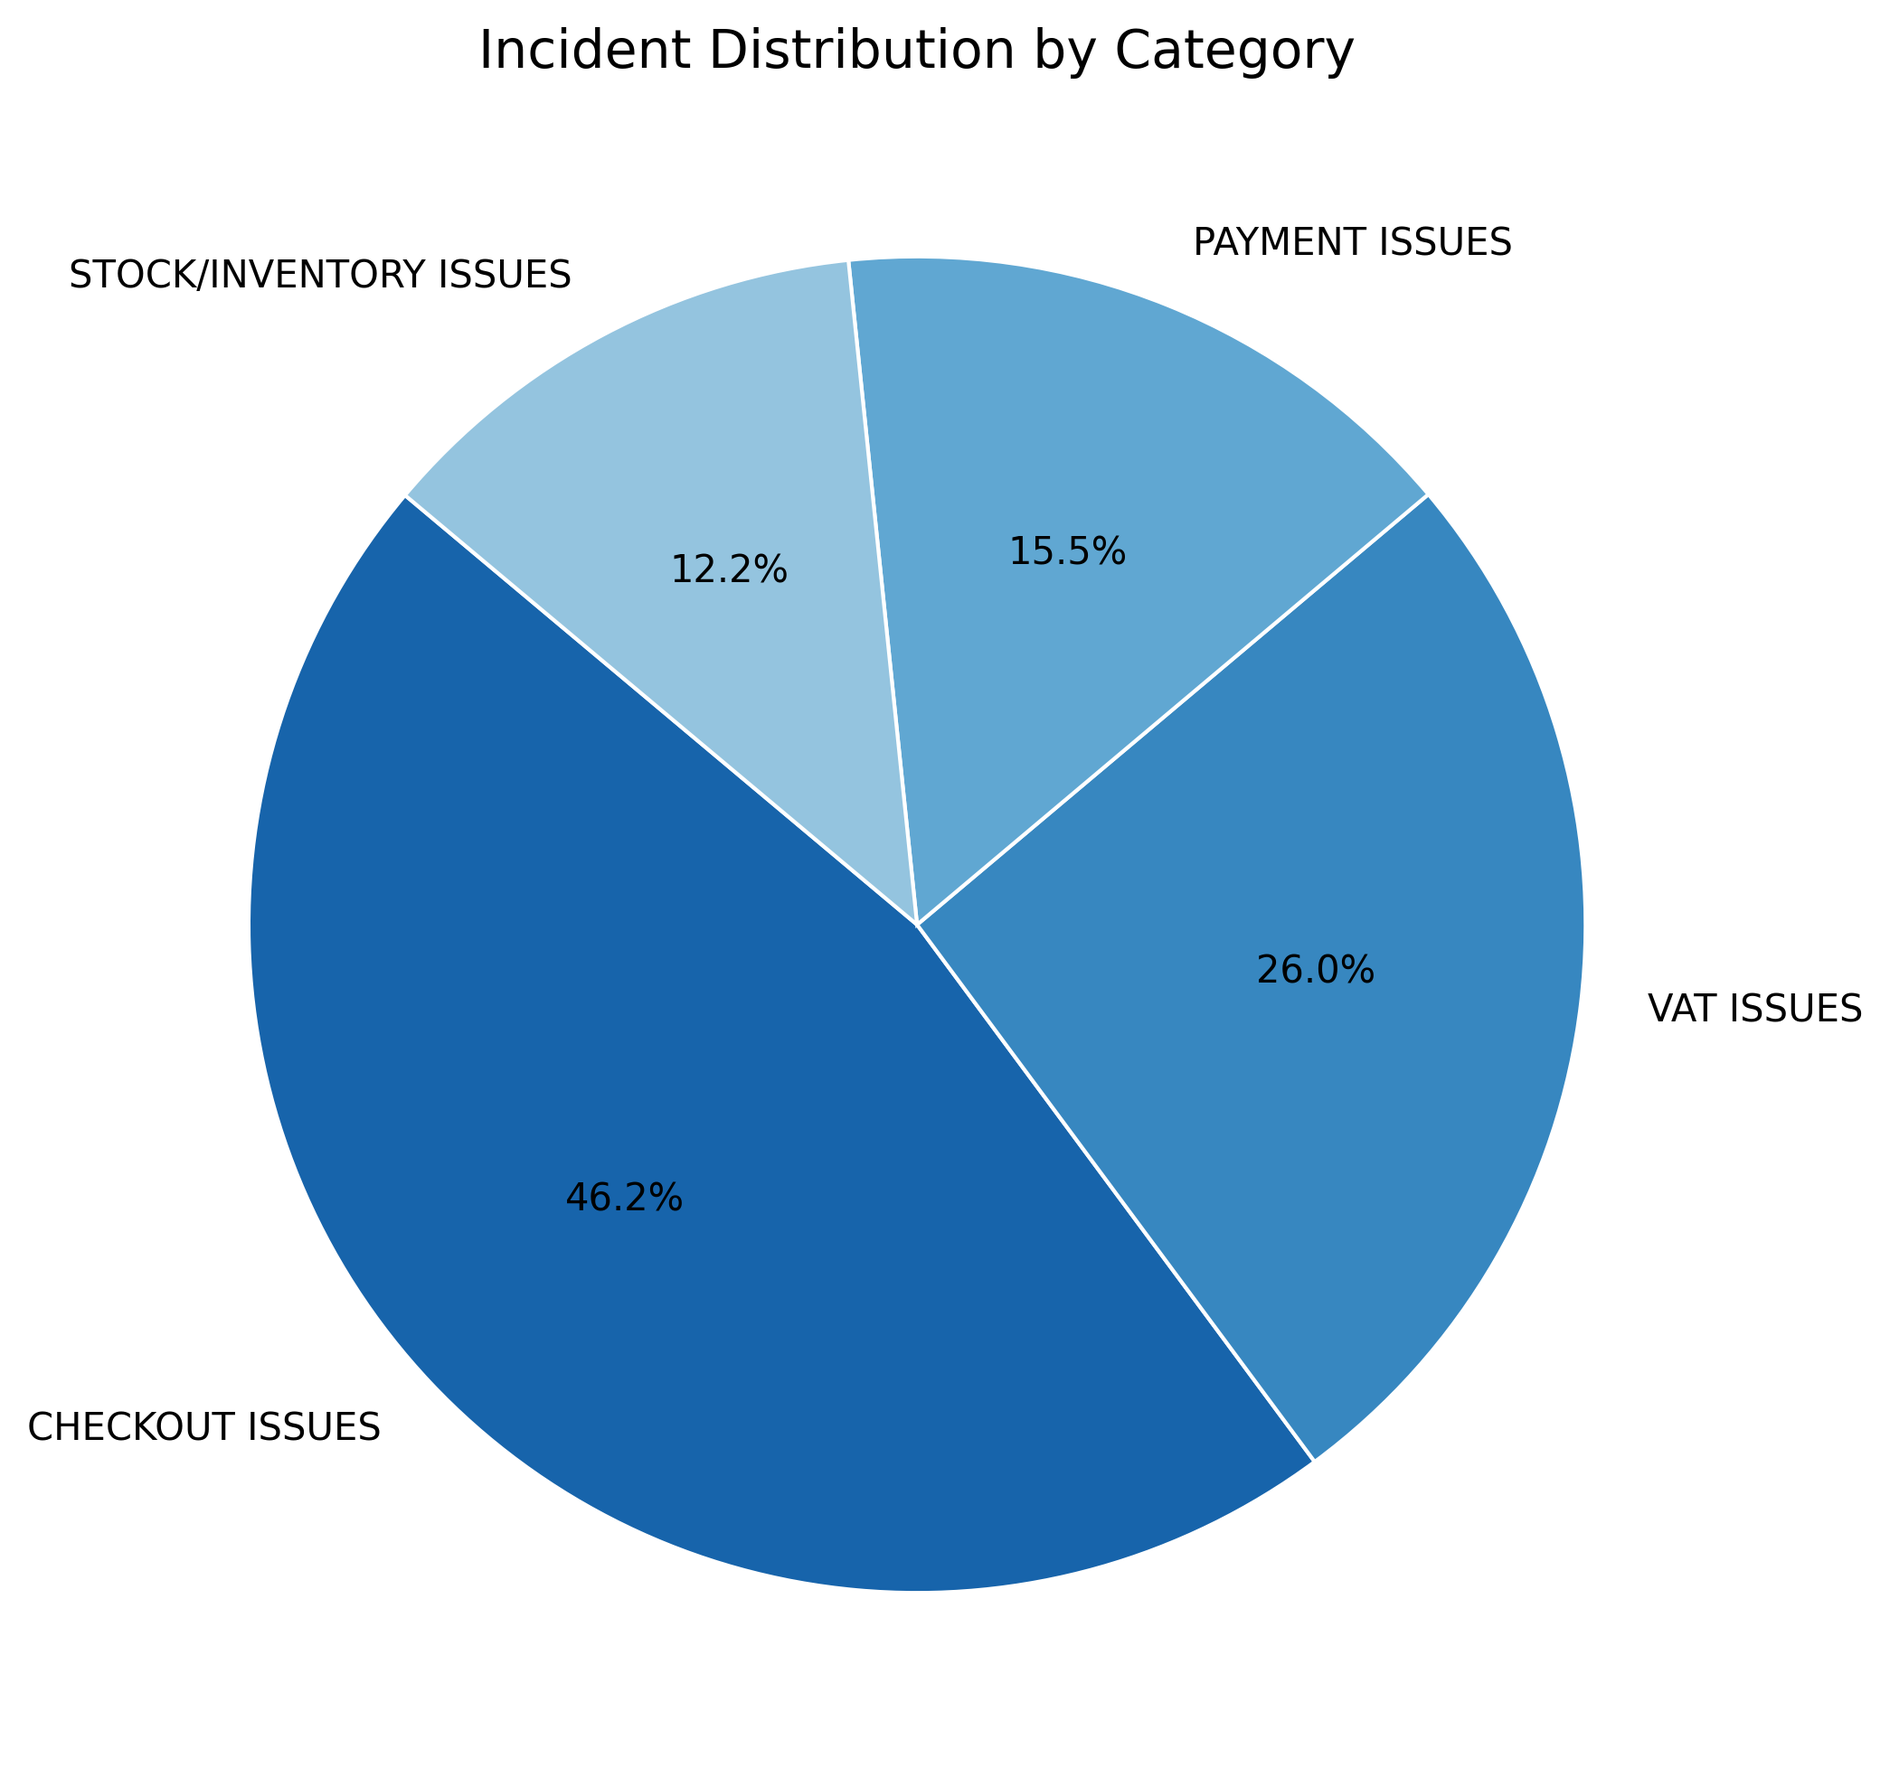
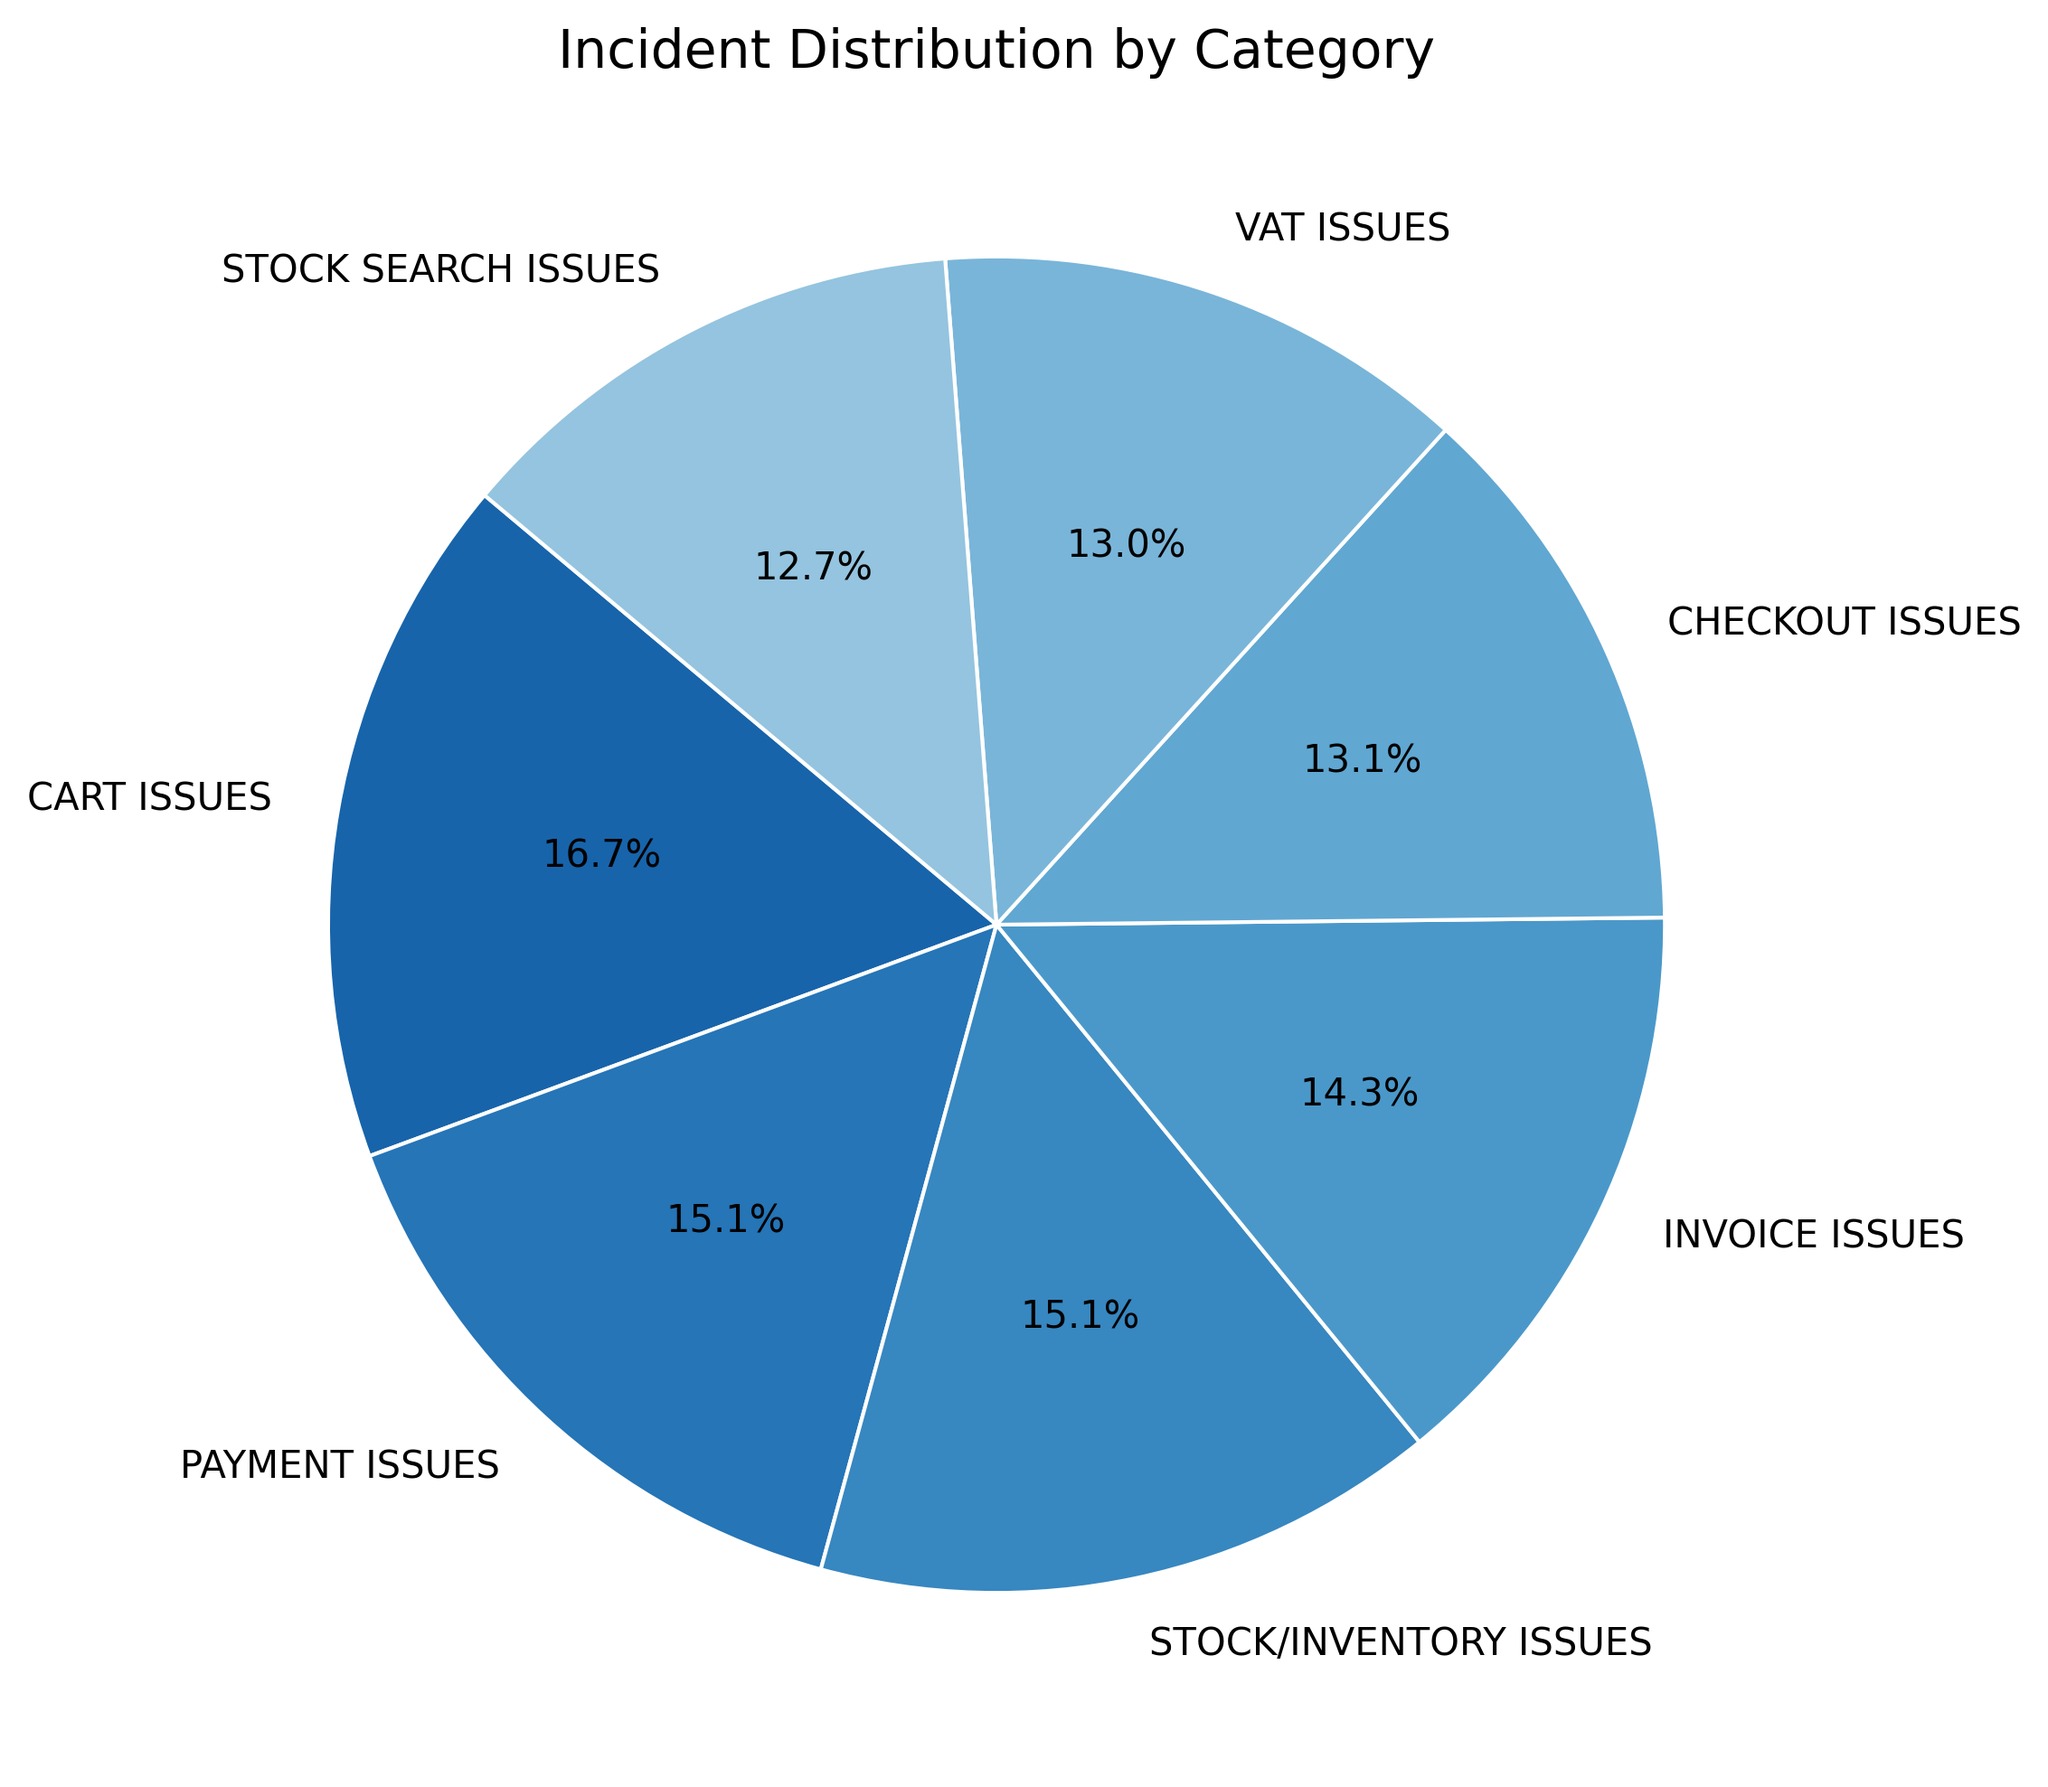
new changes

diff --git a/tests/test_data_analysis.py b/tests/test_data_analysis.py
@@ -1,0 +1,71 @@
+import sys
+from pathlib import Path
+import pandas as pd
+import io
+
+# Add project root to sys.path so we can import data_analysis
+sys.path.insert(0, str(Path(__file__).resolve().parents[1]))
+
+import data_analysis as da
+
+def test_normalize_text_and_categorize():
+    # Normalize: german chars, punctuation and extra spaces
+    src = "  Grüß,  VAT issue! Checkout-block?  "
+    normalized = da._normalize_text(src)
+    assert "gruess" in normalized or "grues" in normalized  # accept either transliteration forms
+    assert "vat" in normalized
+
+    # Categorize specific cases
+    assert da.categorize_issue("Checkout blocked with 408 request timeout") == "CHECKOUT ISSUES"
+    assert da.categorize_issue("We have a VAT discrepancy") == "VAT ISSUES"
+    assert da.categorize_issue("Cannot find product - 404 not found") == "STOCK SEARCH ISSUES"
+    assert da.categorize_issue("Payment gateway failure") == "PAYMENT ISSUES"
+    assert da.categorize_issue("") == "UNCATEGORIZED"
+    assert da.categorize_issue(None) == "UNCATEGORIZED"
+
+def test_load_incidents_and_number_normalization(tmp_path):
+    csv_path = tmp_path / "incident.csv"
+    csv_content = "number,short_description,description,problem_id\n  abC123  ,short,desc,PRB001\n"
+    csv_path.write_text(csv_content, encoding="utf-8")
+
+    df = da.load_incidents(csv_path)
+    assert not df.empty
+    # number column should be uppercased and stripped
+    assert df.loc[0, "number"] == "ABC123"
+
+def test_analyze_data_and_problem_report(tmp_path):
+    # Create a DataFrame with two incidents sharing same problem_id (with mixed-case and spaces)
+    df = pd.DataFrame([
+        {"short_description": "checkout timeout", "description": "", "problem_id": " prb001 "},
+        {"short_description": "checkout error", "description": "408 request timeout", "problem_id": "PRB001"},
+        {"short_description": "unrelated", "description": "some note", "problem_id": pd.NA},
+    ])
+
+    analyzed_df, summary, issue_trends, problem_report = da.analyze_data(df)
+
+    # Summary checks
+    assert summary["total_incidents"] == 3
+    assert summary["tickets_with_problem"] == 2
+    assert summary["unique_issue_types"] >= 1
+
+    # Problem report should aggregate the two PRB001 into one entry with count 2
+    assert not problem_report.empty
+    # Ensure Problem ID present and Incident Count equals 2
+    entry = problem_report[problem_report["Problem ID"].str.upper() == "PRB001"]
+    assert not entry.empty
+    assert int(entry["Incident Count"].iloc[0]) == 2
+
+def test_create_problem_table_img_writes_file(tmp_path):
+    # Prepare a small problem_report DataFrame
+    problem_report = pd.DataFrame({
+        "Problem ID": ["PRB001", "PRB002"],
+        "Description": ["desc1", "desc2"],
+        "Incident Count": [2, 1]
+    })
+
+    out_dir = tmp_path / "out"
+    # Ensure no error is raised and file is created
+    da.create_problem_table_img(out_dir, problem_report)
+
+    expected_file = out_dir / "problem_report_table.png"
+    assert expected_file.exists() and expected_file.stat().st_size > 0

diff --git a/README.md b/README.md
@@ -2,23 +2,37 @@
 
 ## SNOW Analysis Tool
 
-This project provides a data analysis tool for ServiceNow (SNOW) incident management data. It processes CSV files containing incidents, metric instances, and problems to generate insights, categorizations, and visualizations.
+A data analysis tool for ServiceNow (SNOW) incident management. Process CSV files containing incidents to generate insights, categorizations, and visualizations. Access via CLI or web interface.
 
 ### Features
 
-- **Data Loading**: Loads incident, metric, and problem data from CSV files with encoding fallback support.
-- **Issue Categorization**: Automatically categorizes incidents into types such as CHECKOUT ISSUES, VAT ISSUES, INVOICE/BILLING ISSUES, STOCK ISSUES, and UNCATEGORIZED.
-- **Analysis**: Provides summaries including total incidents, unique problems, issue trends, and top applications affected.
-- **Visualization**: Generates a monochromatic blue pie chart showing incident distribution by issue type.
-- **Output**: Saves visualizations to an output directory and prints detailed analysis results to the console.
+- **Data Loading**: Loads incident data from CSV files with encoding fallback support (UTF-8, Latin-1, CP1252).
+- **Issue Categorization**: Automatically categorizes incidents into:
+  - CHECKOUT ISSUES
+  - STOCK SEARCH ISSUES
+  - VAT ISSUES
+  - PAYMENT ISSUES
+  - STOCK/INVENTORY ISSUES
+  - CART ISSUES
+  - INVOICE ISSUES
+  - UNCATEGORIZED
+- **Problem ID Aggregation**: Groups incidents by Problem ID and counts associated tickets.
+- **Analysis Summary**: Provides total incidents, tickets with problems, and unique issue type counts.
+- **Visualizations**: 
+  - Pie chart showing incident distribution by category
+  - Table image displaying Problem IDs and incident counts
+- **Web Interface**: FastAPI-based web UI for easy file upload and analysis.
+- **Output**: Saves visualizations to the output directory.
 
 ### Requirements
 
-- Python 3.x
+- Python 3.8+
 - Dependencies listed in `requirements.txt`:
   - pandas>=1.3.0
   - numpy>=1.21.0
   - matplotlib>=3.4.0
+  - fastapi>=0.95.0
+  - uvicorn>=0.21.0
 
 ### Installation
 
@@ -40,58 +54,113 @@ This project provides a data analysis tool for ServiceNow (SNOW) incident manage
 
 ### Usage
 
-Run the analysis script with default CSV files:
+### Option 1: Command Line (CLI)
+
+Run the analysis script with default CSV file in the current directory:
 
 ```
 python data_analysis.py
 ```
 
-Or specify custom file paths:
+The script expects `incident.csv` in the current working directory.
+
+### Option 2: Web Interface (FastAPI)
+
+Start the web server:
 
 ```
-python data_analysis.py --incident path/to/incident.csv --metric path/to/metric_instance.csv --problem path/to/problems.csv --output-dir path/to/output
+python fastapi_app.py
 ```
 
-### Arguments
+Then open your browser to:
+```
+http://localhost:8000
+```
 
-- `--incident`: Path to the incident CSV file (default: `incident.csv`)
-- `--metric`: Path to the metric instance CSV file (default: `metric_instance.csv`)
-- `--problem`: Path to the problems CSV file (default: `problems.csv`)
-- `--output-dir`: Directory to save output visualizations (default: `output`)
+**Features:**
+- Upload incident CSV files directly via the web form
+- Or specify file paths on your machine (defaults to `~/Downloads/incident.csv`)
+- View generated visualizations in the browser
+- Download visualization images
 
-### Output
+View a gallery of all generated visualizations:
+```
+http://localhost:8000/gallery
+```
 
-- Console output with analysis summary, top issue types, and statistics.
-- Pie chart visualization saved as `03_issues_distribution.png` in the output directory.
+## Input Data Format
 
-### Data Files
+### incident.csv
 
-- `incident.csv`: Contains incident data with columns like number, short_description, description, state, assignment_group.
-- `metric_instance.csv`: Contains metric instances linked to incidents.
-- `problems.csv`: Contains problem records.
+Required columns:
+- `number`: Incident number (will be normalized to uppercase)
+- `short_description`: Brief description of the incident
+- `description`: Full incident description
+- `problem_id`: Associated Problem ID (format: PRB followed by numbers)
 
-### Example Output
+Example:
+```
+number,short_description,description,problem_id
+INC0001,Checkout timeout,408 request timeout during checkout,PRB001
+INC0002,Stock sync error,Inventory levels not syncing,PRB002
+```
+
+## Output
+
+### Console Output (CLI)
 
 ```
-============================================================
-SNOW ANALYSIS SUMMARY
-============================================================
-Total Incidents In Metrics     : 150
-Total Unique Incidents         : 120
-Tickets With Problem           : 45
-Percentage With Problem        : 30.0%
-Unique Applications            : 10
-Total Unique Problems          : 15
-Unique Issue Types             : 5
+==================================================
+SNOW INCIDENT ANALYSIS SUMMARY
+==================================================
+Total Incidents        : 150
+Tickets With Problem   : 45
+Unique Issue Types     : 5
 
-TOP ISSUE TYPES:
-issue_type  incident_count
-CHECKOUT ISSUES    50
-UNCATEGORIZED     40
-STOCK ISSUES      30
+TOP PROBLEM ASSOCIATIONS:
+Problem ID  Description              Incident Count
+PRB001      Checkout timeout         12
+PRB002      Stock sync error         8
 ...
 ```
 
-### Contributing
+### Generated Files
+
+- `issues_distribution.png`: Pie chart of incident distribution by category
+- `problem_report_table.png`: Table showing Problem IDs and associated incident counts
+
+## Project Structure
+
+```
+proiect_final_wantsome/
+├── data_analysis.py           # Core analysis logic
+├── fastapi_app.py             # Web interface
+├── requirements.txt           # Python dependencies
+├── README.md                  # This file
+├── tests/
+│   └── test_data_analysis.py  # Unit tests
+└── output/                    # Generated visualizations
+```
+
+## Testing
+
+Run unit tests using pytest:
+
+```bash
+pytest tests/test_data_analysis.py -v
+```
+
+Tests cover:
+- Text normalization and German character handling
+- Issue categorization logic
+- CSV loading with number column normalization
+- Problem ID aggregation and grouping
+- Visualization file generation
+
+## Contributing
 
 Feel free to contribute by submitting issues or pull requests.
+
+## License
+
+[Add your license information here]
